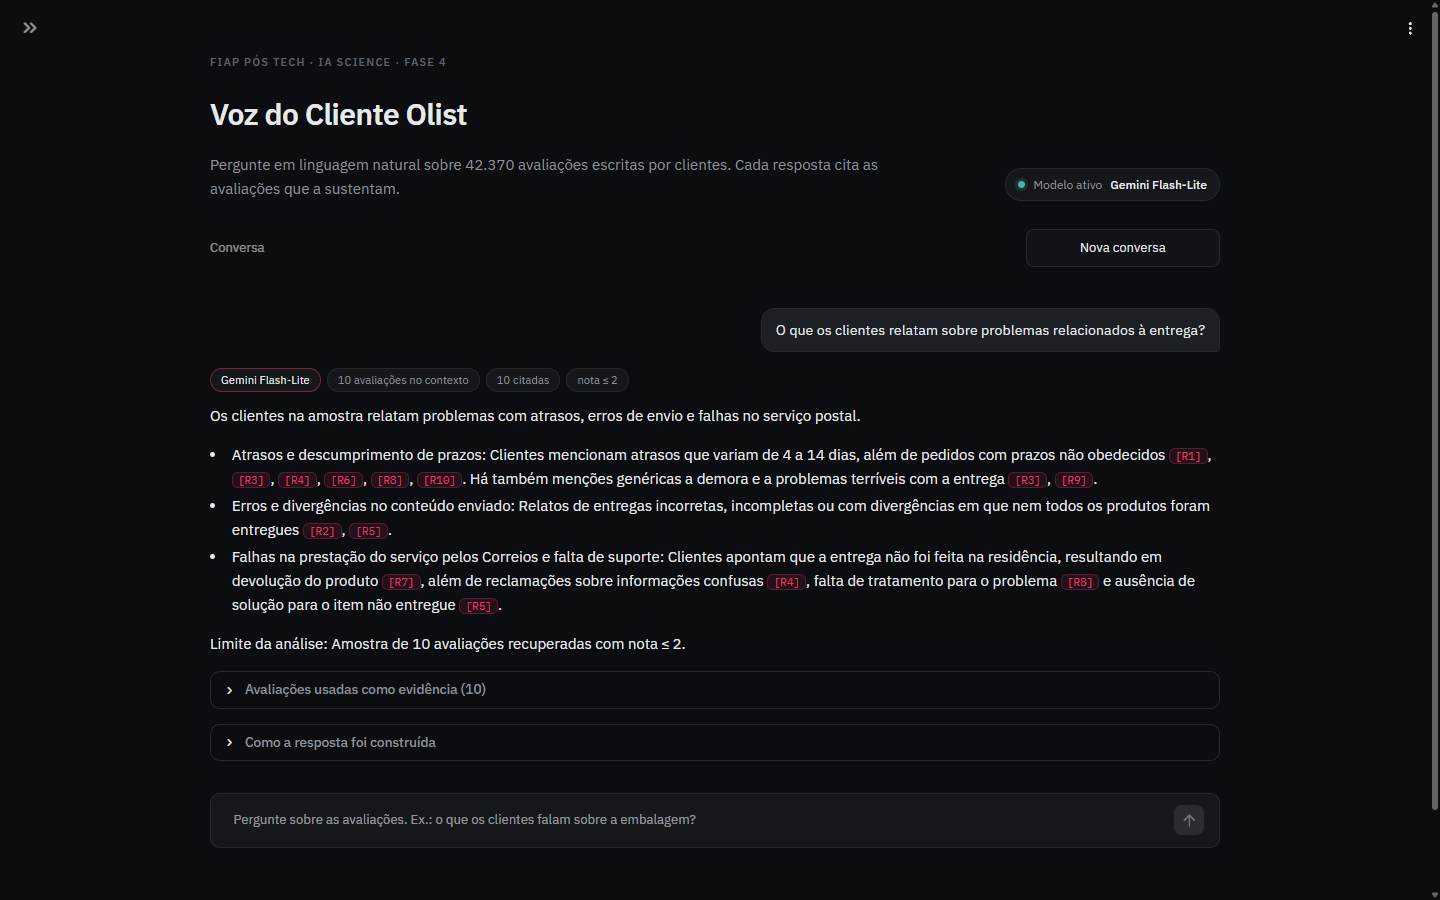
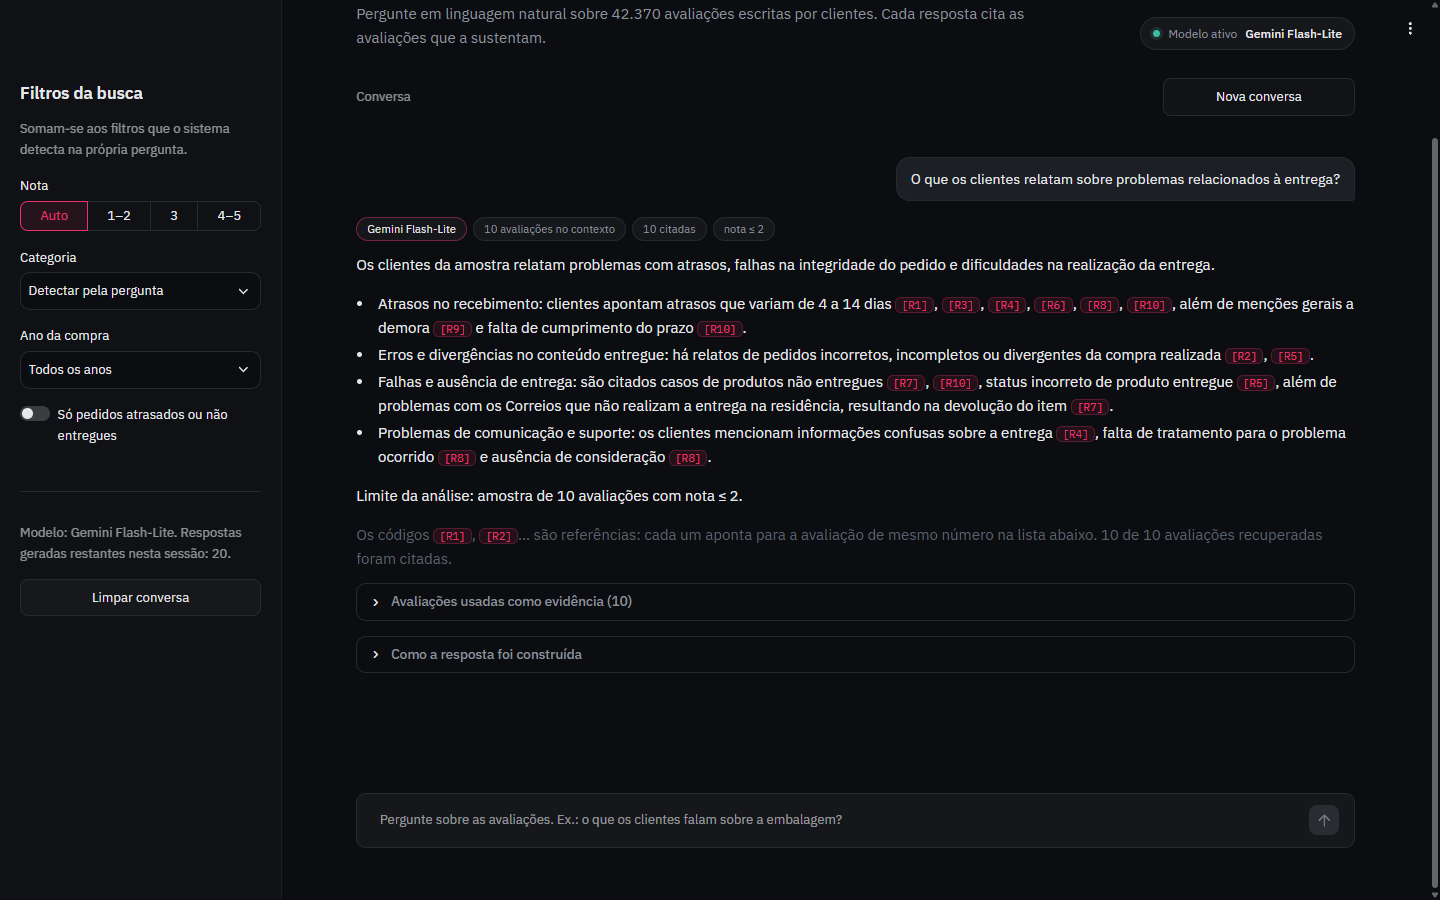
docs: explain [R#] citations as references in the README and the app
- A note under every generated answer says what [R1], [R2]... are and
  how many retrieved reviews were cited
- README explains that R stands for reference, how the numbering is built,
  that it is per answer, and that review_id is the permanent identifier
- Fix the trace panel name and an outdated calibration distance

diff --git a/ui/components.py b/ui/components.py
@@ -63,6 +63,12 @@ def answer(text: str) -> str:
   return CITATION_GROUP_PATTERN.sub(lambda m: f'<span class="cite">{m.group(0)}</span>', safe)
 
 
+def citation_note(cited: int, total: int) -> str:
+  return (f'<p class="cite-note">Os códigos <span class="cite">[R1]</span>, <span class="cite">[R2]</span>… são '
+          f'referências: cada um aponta para a avaliação de mesmo número na lista abaixo. '
+          f'{cited} de {total} avaliações recuperadas foram citadas.</p>')
+
+
 def callout(title: str, body: str, kind: str = "") -> str:
   return (f'<div class="callout {kind}"><span class="callout-title">{esc(title)}</span>'
           f'<span class="callout-body">{esc(body)}</span></div>')

diff --git a/app.py b/app.py
@@ -226,6 +226,7 @@ def render_answer(answer: rp.RAGAnswer, index: int):
     st.markdown(ui.chips([model_name(answer.llm_label), f"{len(answer.evidences)} avaliações no contexto",
                           f"{len(answer.cited)} citadas", *filters], accent_first=True), unsafe_allow_html=True)
     st.markdown(ui.answer(answer.text), unsafe_allow_html=True)
+    st.markdown(ui.citation_note(len(answer.cited), len(answer.evidences)), unsafe_allow_html=True)
     if answer.has_uncited_answer:
       st.markdown(ui.callout("Resposta sem citações",
                              "O modelo não citou nenhuma avaliação. Confira as evidências antes de usar.", "error"),

diff --git a/ui/styles.py b/ui/styles.py
@@ -63,6 +63,7 @@ p, li {{ line-height: 1.6; }}
 .cite {{ font-family: var(--mono); font-size: 0.74em; color: var(--accent); background: rgba(232, 51, 109, 0.1);
   border: 1px solid rgba(232, 51, 109, 0.28); border-radius: 6px; padding: 0 5px; white-space: nowrap; }}
 
+.cite-note {{ font-size: 0.8rem; color: var(--faint); margin: 6px 0 12px; }}
 .callout {{ border: 1px solid var(--border); border-left: 3px solid var(--warning); border-radius: 10px;
   padding: 14px 16px; background: var(--surface); display: grid; gap: 6px; margin: 4px 0 10px; }}
 .callout.info {{ border-left-color: var(--neutral); }}

diff --git a/README.md b/README.md
@@ -68,7 +68,7 @@ A tela inicial mostra os números que contextualizam as perguntas: 25,6% das ava
 
 ![Painel inicial](docs/img/painel.png)
 
-Cada resposta traz o modelo usado, quantas avaliações entraram no contexto, quantas foram citadas e os filtros aplicados. As citações `[R#]` apontam para a lista de evidências.
+Cada resposta traz o modelo usado, quantas avaliações entraram no contexto, quantas foram citadas e os filtros aplicados. As citações `[R#]` (R de **referência**) apontam para a avaliação de mesmo número na lista de evidências logo abaixo da resposta.
 
 ![Resposta com citações](docs/img/resposta.png)
 
@@ -99,7 +99,7 @@ Código: `src/preprocessing.py`. Dados de entrada: os quatro CSVs da Olist em `d
 
 ## 4. Pipeline RAG
 
-Cada etapa abaixo aparece na interface, no painel **"Como a pergunta foi processada"** de cada resposta.
+Cada etapa abaixo aparece na interface, no painel **"Como a resposta foi construída"** de cada resposta.
 
 **1. Transformação da pergunta** (`src/query_parser.py`). Regras determinísticas, para que cada decisão possa ser explicada:
 - **Rota:** perguntas quantitativas ("quais categorias têm mais reclamações?", "qual a porcentagem…") vão para contagem exata em pandas, sem LLM. Um modelo que lê 10 avaliações não sabe contar 42 mil. Perguntas qualitativas seguem para o RAG.
@@ -126,6 +126,8 @@ Entrega atrasada e o produto veio com defeito
 
 Na interface, cada `[R#]` é destacado, e as avaliações citadas aparecem primeiro na lista de evidências, com nota, categoria, data, status de entrega, similaridade e `review_id`.
 
+> **Como ler as citações `[R#]`.** O "R" vem de **referência**. Antes de chamar o modelo, as avaliações recuperadas são numeradas de R1 a R10 no contexto, e o modelo só pode fazer uma afirmação citando o número da avaliação que a sustenta. `[R7]` aponta para a sétima avaliação da lista "Avaliações usadas como evidência"; `[R2, R5]` indica que a mesma afirmação aparece em duas avaliações. É isso que permite rastrear cada insight até o texto original do cliente (requisito 3 do enunciado). A numeração vale só para aquela resposta: o R1 de uma pergunta não é o mesmo R1 de outra. O identificador permanente de cada avaliação é o `review_id`, mostrado no cartão da evidência.
+
 ## 5. Perguntas sem evidência suficiente
 
 São três camadas, da mais barata para a mais cara:
@@ -138,7 +140,7 @@ São três camadas, da mais barata para a mais cara:
 
 Toda recusa diz o motivo: quais filtros foram usados, quantas avaliações passaram e qual era a distância da mais próxima.
 
-A camada 1a existe porque um modelo de embeddings pequeno sempre acha uma avaliação "mais próxima", mesmo para perguntas sem relação. Na calibração, "receita de bolo de chocolate" encontrava a avaliação "Pedi de Baunilha e recebi de CHOCOLATE" a uma distância de 0,18, menor que a de várias perguntas legítimas. Um limiar sozinho não separa os dois casos.
+A camada 1a existe porque um modelo de embeddings pequeno sempre acha uma avaliação "mais próxima", mesmo para perguntas sem relação. Na calibração, "receita de bolo de chocolate" encontrava a avaliação "Pedi de Baunilha e recebi de CHOCOLATE" a uma distância de cerca de 0,2, menor que a de várias perguntas legítimas. Um limiar sozinho não separa os dois casos.
 
 **Exceção calibrada:** quando a pergunta só expressa sentimento e filtros ("reclamações sobre cama, mesa e banho em 2018"), a consulta semântica fica reduzida a "reclamações". Nesse caso o recorte já define a relevância (nota ≤ 2, categoria e ano) e o limiar de distância não é aplicado.
 
@@ -191,7 +193,7 @@ Testes unitários: `pytest` (29 testes, sem precisar do modelo nem de chave de A
 
 ## 8. Exemplos de perguntas e respostas
 
-Respostas reais geradas por `python -m eval.run_eval --with-llm` com o Gemini Flash-Lite. As 22 respostas completas, com as avaliações citadas, estão em [`eval/RESULTADOS.md`](eval/RESULTADOS.md#respostas-geradas).
+Respostas reais geradas por `python -m eval.run_eval --with-llm` com o Gemini Flash-Lite. Os códigos `[R#]` são referências às avaliações listadas na tabela abaixo de cada resposta. As 22 respostas completas, com as avaliações citadas, estão em [`eval/RESULTADOS.md`](eval/RESULTADOS.md#respostas-geradas).
 
 ### "O que os clientes relatam sobre problemas relacionados à entrega?"
 
